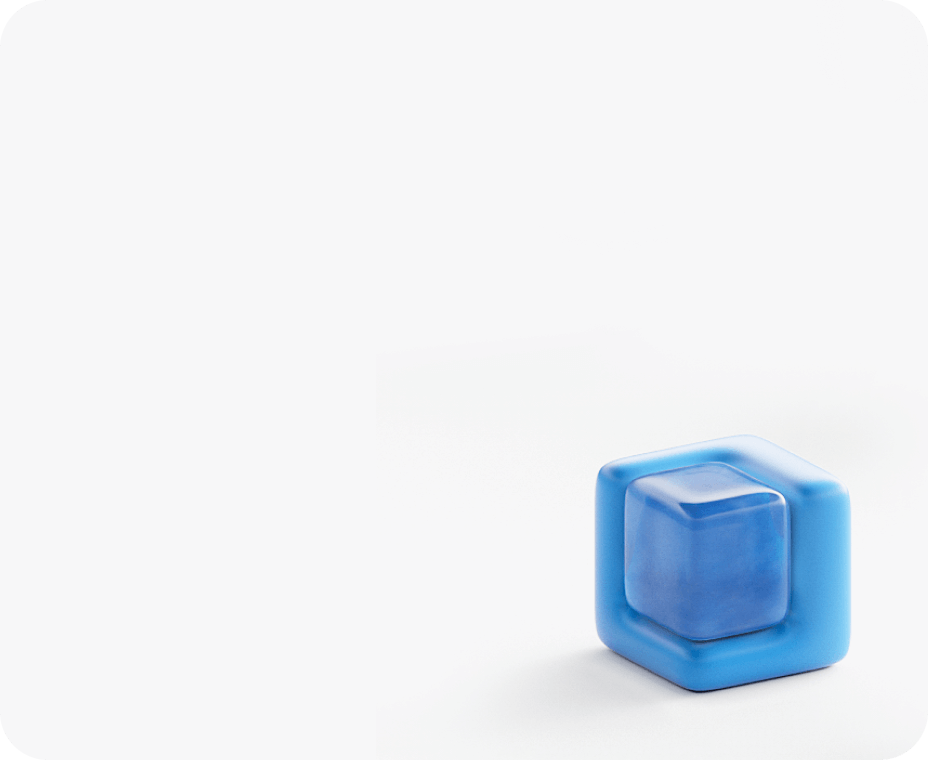
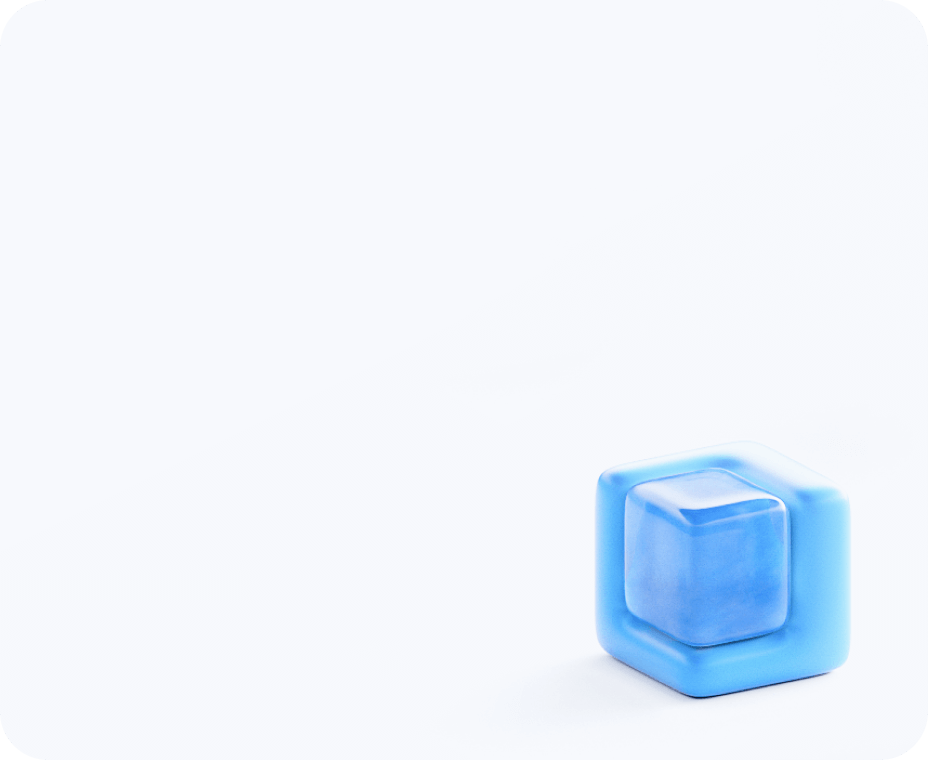
-

Changed region(s): [[0.625, 0.575, 0.9375, 0.9382]]

diff --git a/src/App_style.js b/src/App_style.js
@@ -37,12 +37,12 @@ export const Container = styled.main`
   .col-1 {
     max-width: 586px;
     width: 100%;
-    height: 1083px;
+    height: 1261px;
   }
   .col-2 {
     max-width: 448px;
     width: 100%;
-    height: 1224px;
+    height: 1583px;
   }
   .col-3 {
     max-width: 282px;
@@ -53,19 +53,19 @@ export const Container = styled.main`
   .col-4 {
     max-width: 318px;
     width: 100%;
-    height: 1234px;
+    height: 1522px;
     margin-top: 22px;
   }
   .col-5 {
     max-width: 468px;
     width: 100%;
-    height: 1182px;
+    height: 1298px;
     margin-top: 22px;
   }
   .col-6 {
     max-width: 472px;
     width: 100%;
-    height: 1289px;
+    height: 1613px;
     margin-top: 22px;
   }
 
@@ -1017,7 +1017,7 @@ export const Comp = styled.section`
   .comp-pic-all {
     display: flex;
     justify-content: center;
-    margin-right: -200px;
+    margin-right: -80px;
   }
 
   .window {
@@ -1030,7 +1030,7 @@ export const Comp = styled.section`
     border-radius: var(--radius-32);
     overflow: hidden;
     box-shadow: 0 0 0 16px rgb(41 50 60 / 10%);
-    background: var(--cr-bg-1);
+    /* background: var(--cr-bg-1); */
     /* 
     img {
       width: 100%;

diff --git a/src/style/global.scss b/src/style/global.scss
@@ -34,7 +34,7 @@ body {
 
 :root {
   --cr-white: #ffffff;
-  --cr-bg-1: hsl(240, 7%, 97%);
+  --cr-bg-1: #F7F9FC;
   --cr-bg-2: hsl(203, 100%, 97%);
   --cr-bg-3: hsl(203, 90%, 98%);
   --cr-icon-1: #667093;
@@ -110,5 +110,5 @@ body {
   --shadow-3: 0 2px 16px rgba(103, 110, 144, 0.15);
   --shadow-4: 0 0 0 2px rgba(211, 211, 211, 0.2);
   --blend: none;
-  --filter-1: invert(1) hue-rotate(-120deg);
+  --filter-1: invert(1) hue-rotate(200deg) contrast(1.1);
 }

diff --git a/src/App.js b/src/App.js
@@ -708,7 +708,7 @@ class App extends Component {
     }, 3000);
 
     gsap.to("header", {
-      yPercent: -20,
+      yPercent: -8,
       ease: "none",
       scrollTrigger: {
         trigger: "header",
